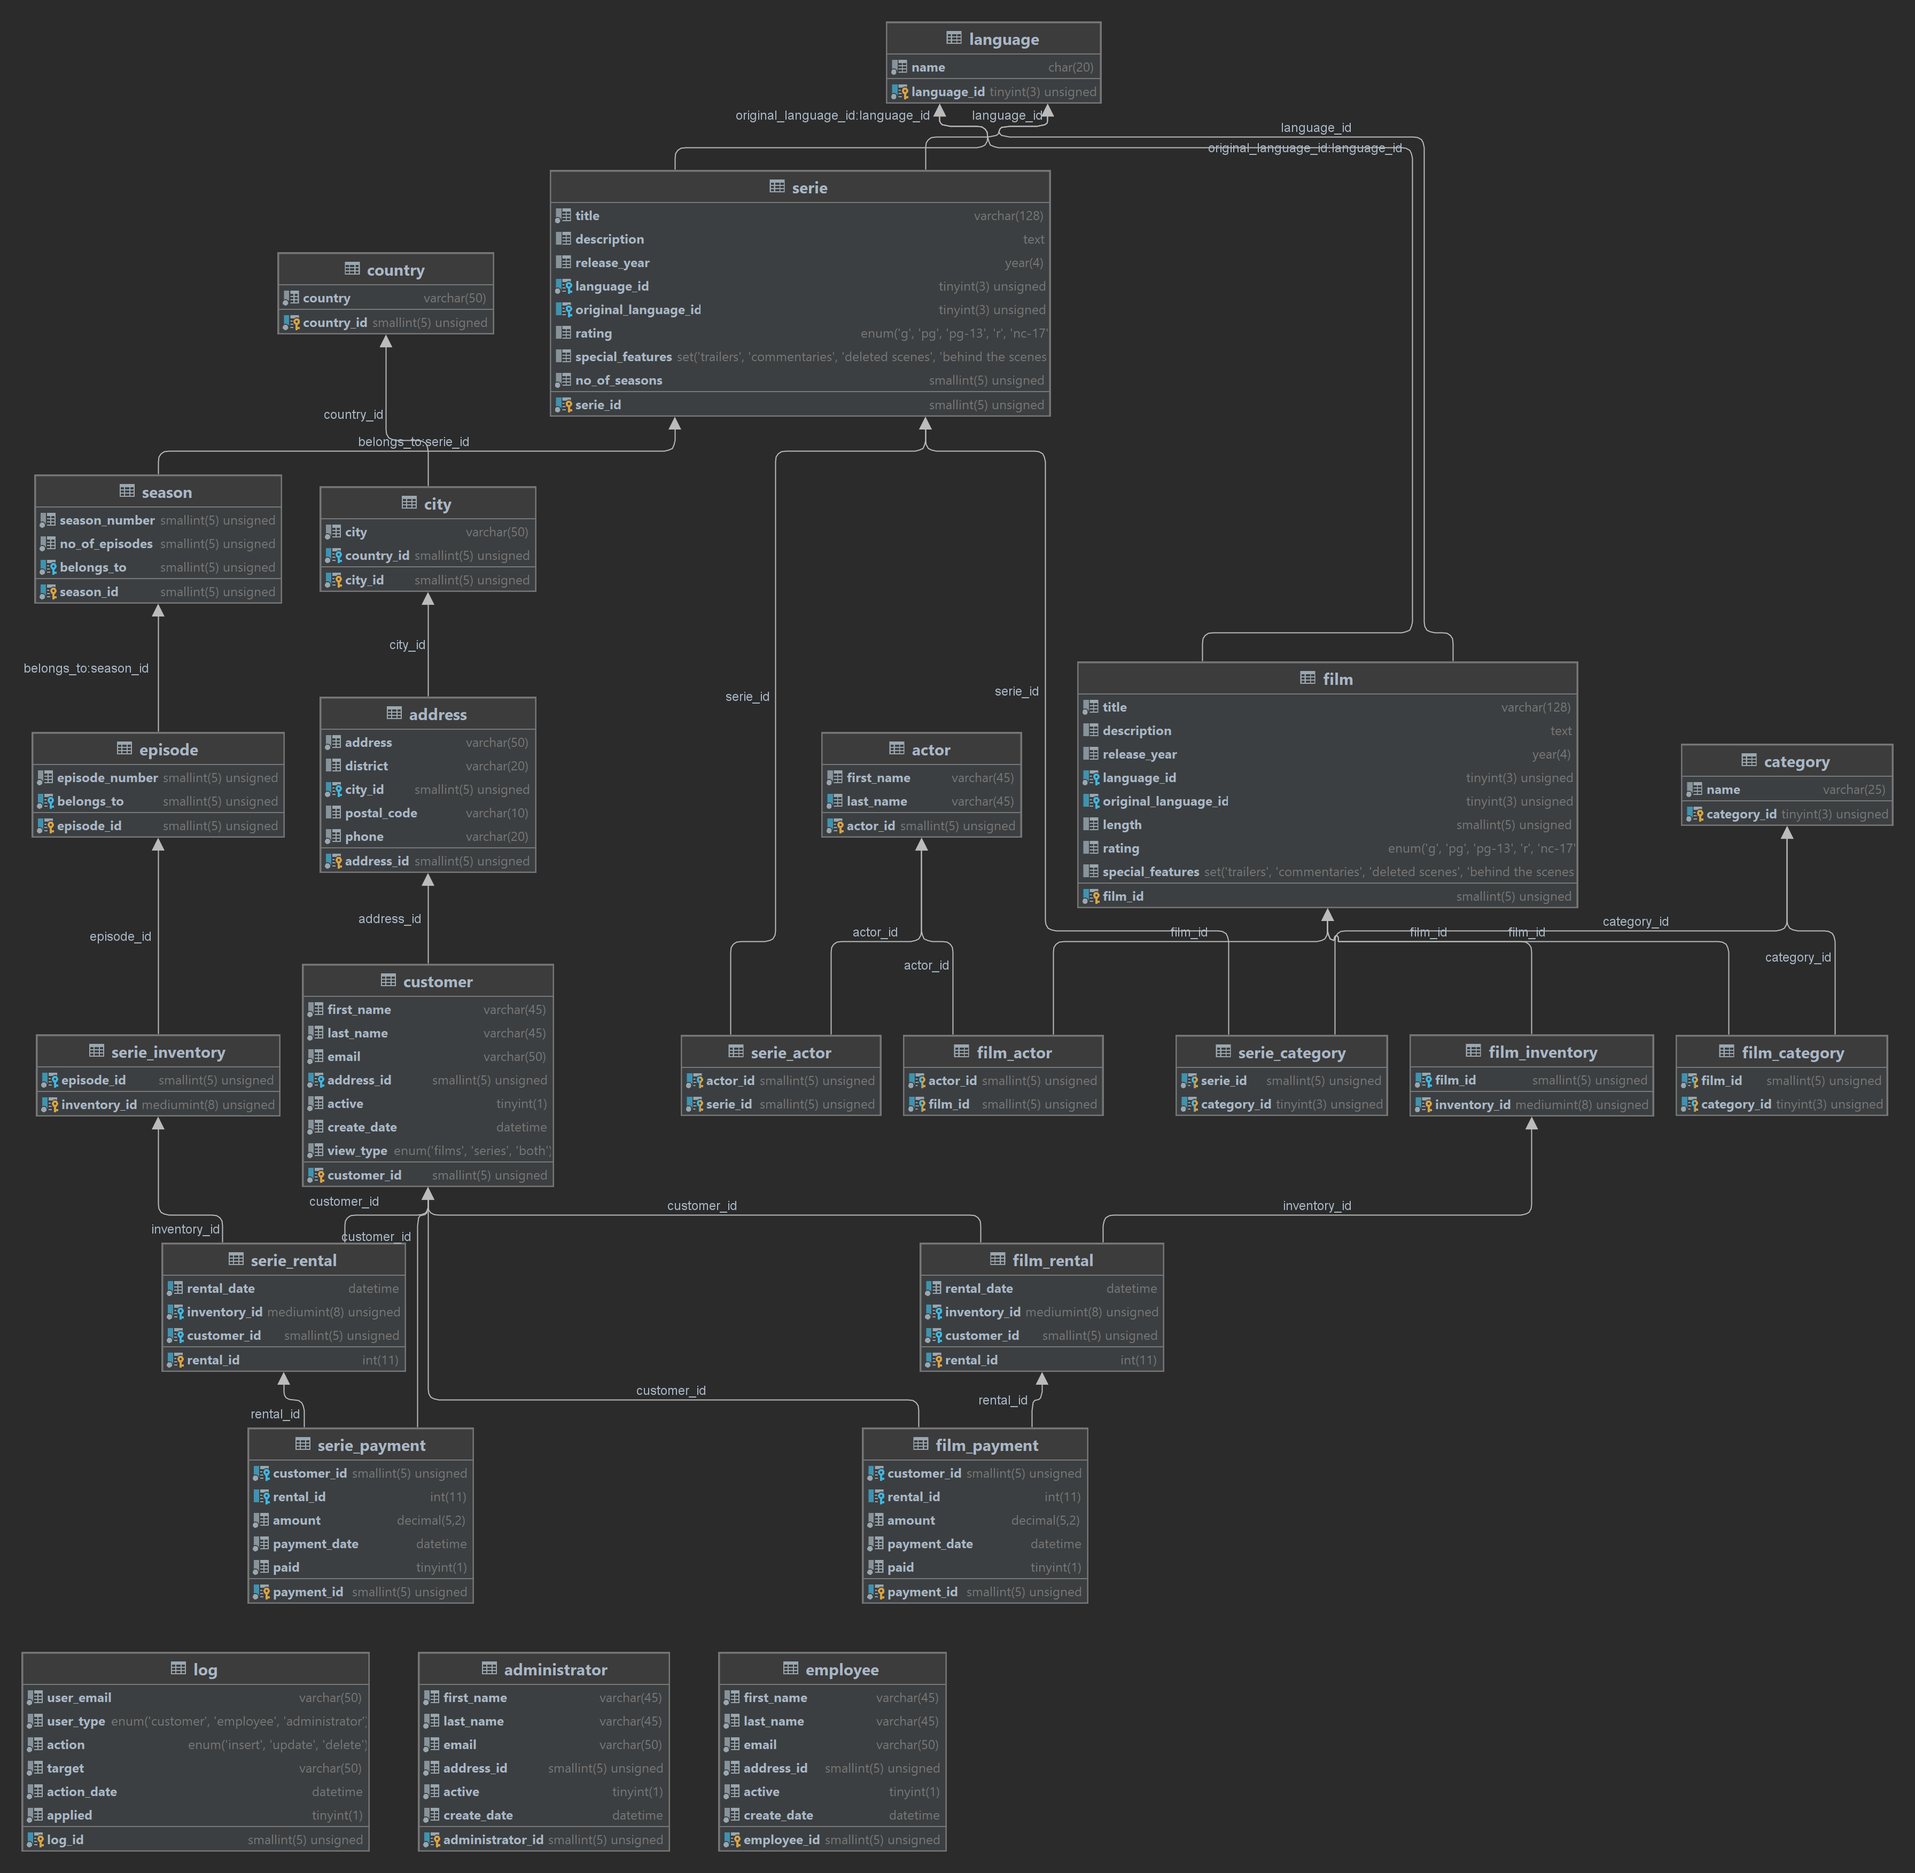
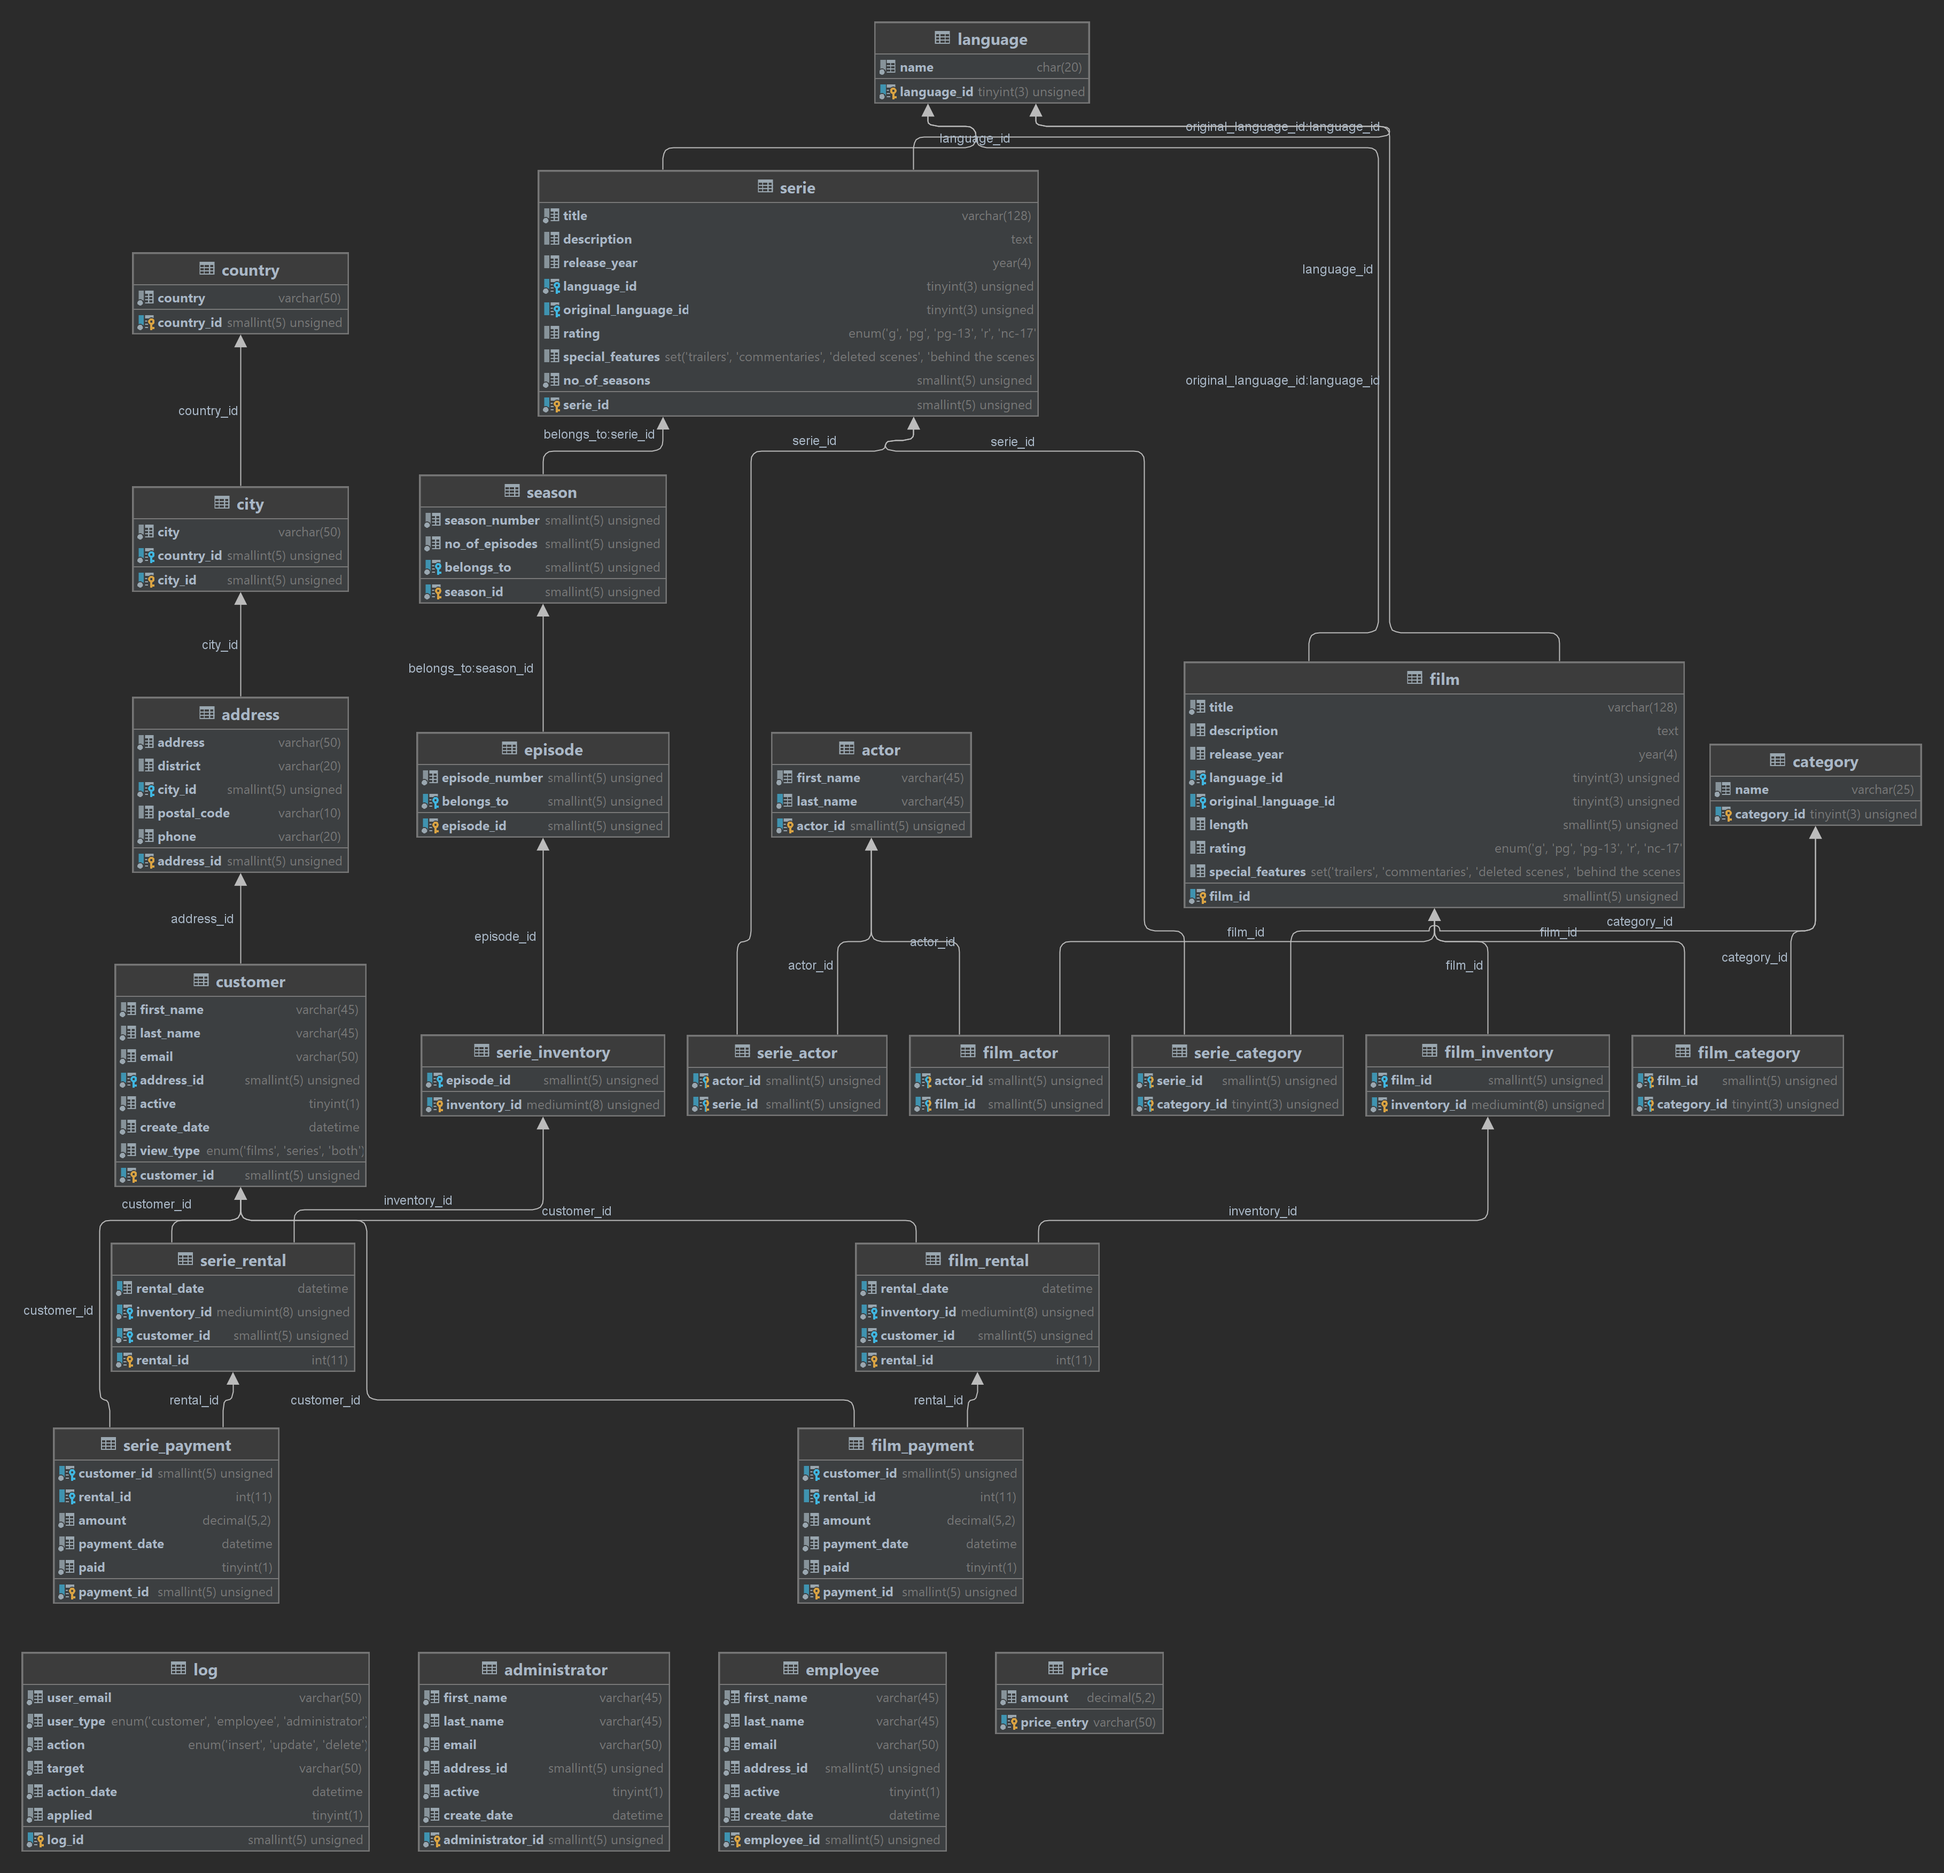
Fixed relational diagram and made multiples of 3 to give discount

diff --git a/api/dbconfig.js b/api/dbconfig.js
@@ -1,6 +1,6 @@
 const  config = {
   user:  'root', // sql user
-  password:  'peri1908', //sql user password
+  password:  '', //sql user password
   server:  '127.0.0.1', // if it does not work try- localhost
   database:  'tvondemand',
   dialect: 'mysql',
